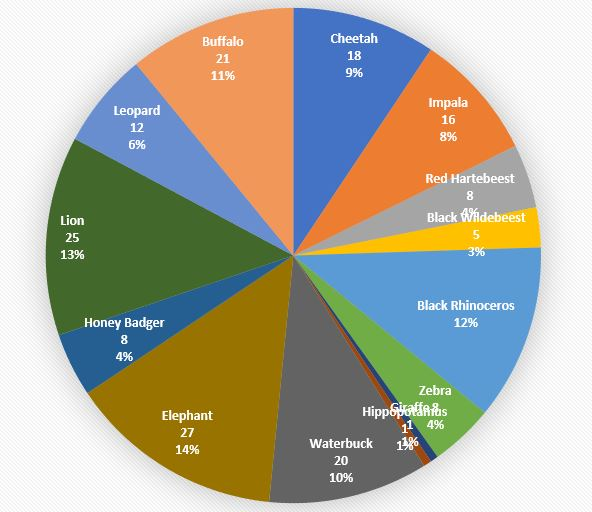
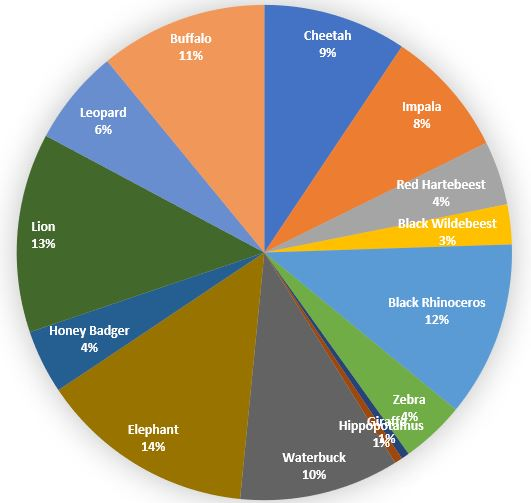
overview final

diff --git a/Server/web-frontend/src/app/views/overview/overview.component.html b/Server/web-frontend/src/app/views/overview/overview.component.html
@@ -114,7 +114,7 @@
                                 </div>
                                 <div class="overview-spoor-container">
                                     <div class="overview-spoor-info-container">
-                                        <img id="chartContainer" style="height: 370px; width: 80%; margin-left:auto;margin-right:auto;" src="https://firebasestorage.googleapis.com/v0/b/erpzat.appspot.com/o/Overview.JPG?alt=media">
+                                        <img id="chartContainer" style="height: 370px; width: 75%; margin-left:auto;margin-right:auto;" src="https://firebasestorage.googleapis.com/v0/b/erpzat.appspot.com/o/Overview.JPG?alt=media">
                                     </div>
                                 </div>
                             </div>

diff --git a/Server/web-frontend/src/app/views/overview/overview.component.css b/Server/web-frontend/src/app/views/overview/overview.component.css
@@ -654,7 +654,7 @@
 .overview-spoor-container {
     height: 85%;
     width: 80%;
-    background-color: #EEEEEE;
+    background-color: #FFFFFF;
     border-radius: 15px;
     box-shadow: 0px 2px 8px #BBB;
     display: flex;
